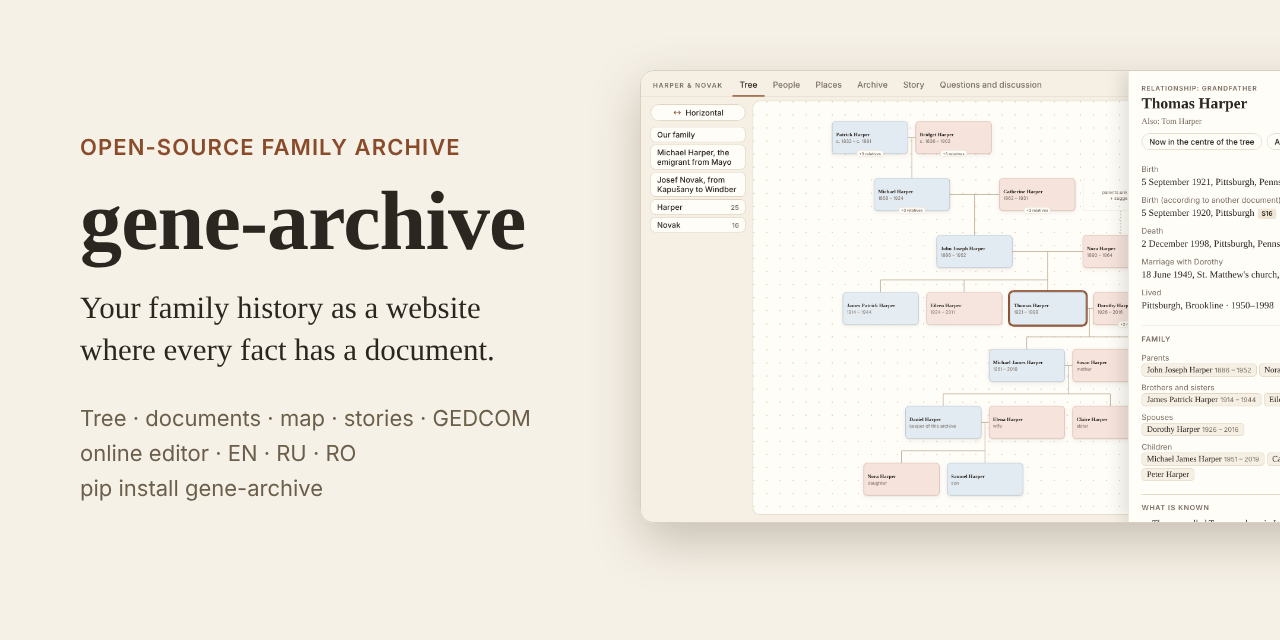
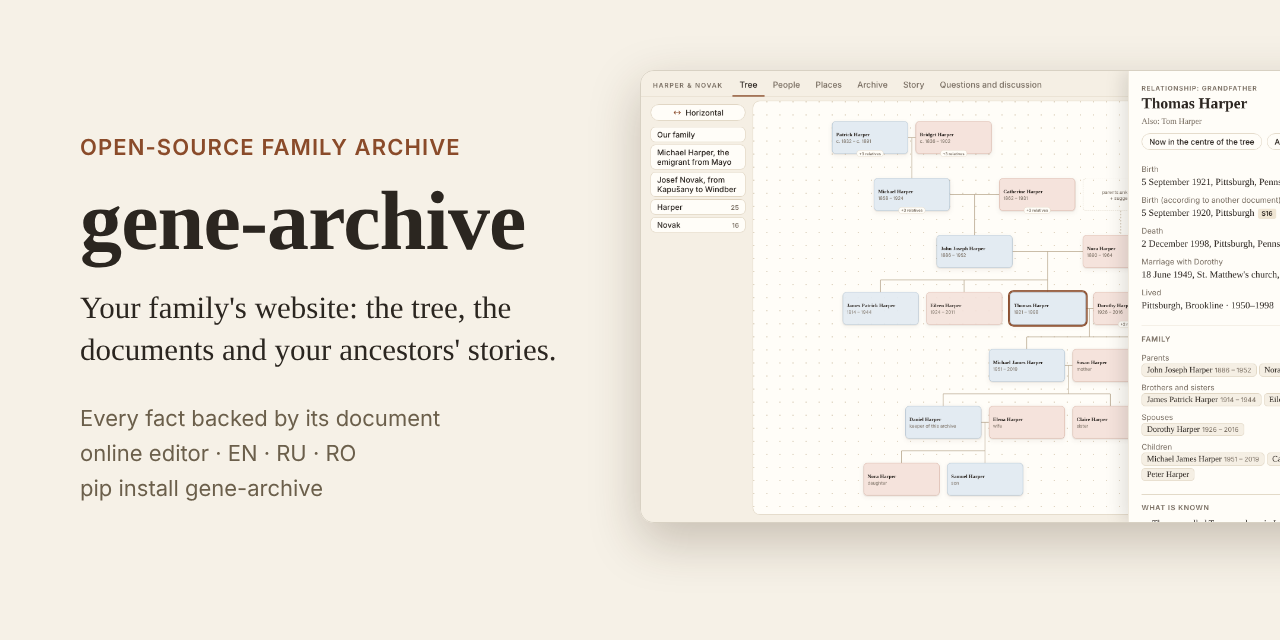
Заголовок «Сайт вашей семьи: древо, документы и истории предков» / Tagline "Your family's website: the tree, the documents and your ancestors' stories"
Claude-Session: https://claude.ai/code/session_01SKxVbNsrnU7y1Qab5Mxs3H

Changed region(s): [[0.0625, 0.625, 0.4062, 0.6875], [0.0625, 0.5312, 0.4375, 0.5625], [0.1875, 0.4688, 0.4062, 0.5]]

diff --git a/README.ru.md b/README.ru.md
@@ -2,7 +2,9 @@
 
 # gene-archive
 
-### История вашей семьи — сайтом, где у каждого факта есть документ.
+### Сайт вашей семьи: древо, документы и истории предков
+
+У каждого факта — свой документ.
 
 [![Release](https://img.shields.io/github/v/release/igormel81/gene_archive?color=8a4b2a&label=выпуск)](https://github.com/igormel81/gene_archive/releases)
 [![CI](https://github.com/igormel81/gene_archive/actions/workflows/ci.yml/badge.svg)](https://github.com/igormel81/gene_archive/actions/workflows/ci.yml)

diff --git a/README.md b/README.md
@@ -2,7 +2,9 @@
 
 # gene-archive
 
-### Your family's history as a website — every fact backed by its document.
+### Your family's website: the tree, the documents and your ancestors' stories
+
+Every fact backed by its document.
 
 [![Release](https://img.shields.io/github/v/release/igormel81/gene_archive?color=8a4b2a)](https://github.com/igormel81/gene_archive/releases)
 [![CI](https://github.com/igormel81/gene_archive/actions/workflows/ci.yml/badge.svg)](https://github.com/igormel81/gene_archive/actions/workflows/ci.yml)
